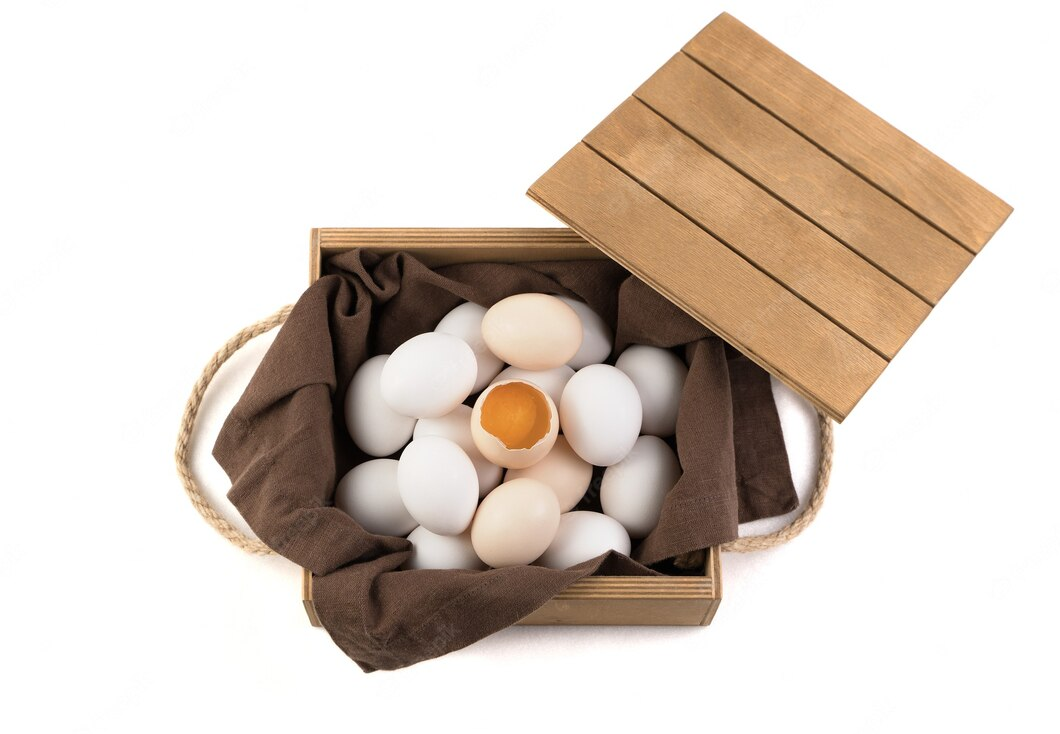
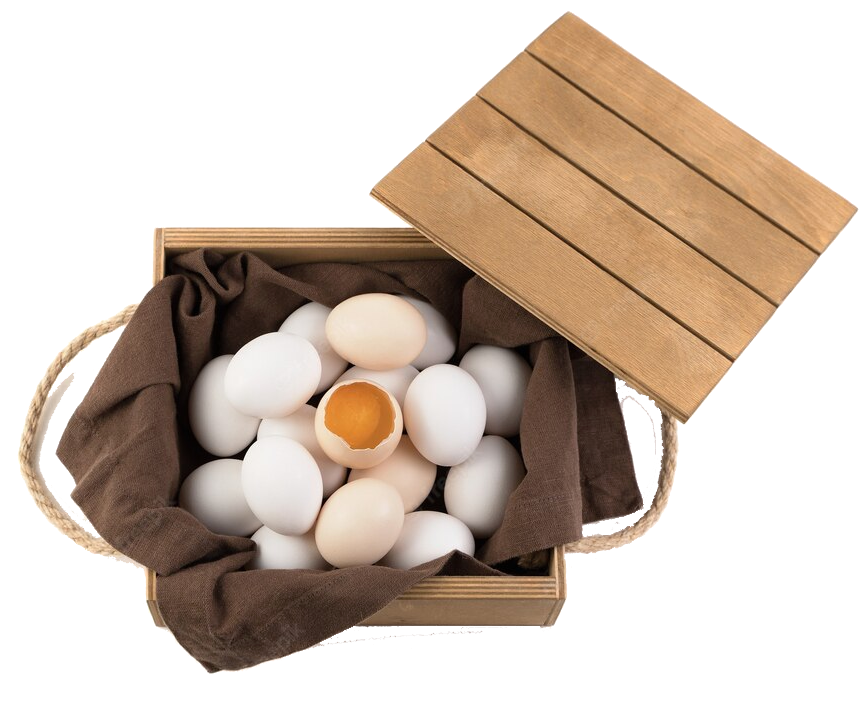
not found page update

diff --git a/src/Pages/NoteFound/NotFound.css b/src/Pages/NoteFound/NotFound.css
@@ -6,11 +6,11 @@
     overflow-x: hidden;
     position: relative;
     background-repeat: no-repeat;
-    align-items: center;
+    align-items: stretch;
     margin-top: 100px;
     margin-bottom: 200px;
     display: flex;
-    justify-content: space-around;
+    justify-content: space-evenly;
 }
 .notFound h1{
     font-size: 100px;
@@ -36,11 +36,20 @@
     .notFound .egg{
         order: 2 !important;
     }
+    .notFound .egg img{
+        width: 80%;
+    }
     .notFound .not404{
         order: 1 !important;
     }
     .notFound {
         flex-direction: column;
+    }
+}
+@media only screen and (min-width:1001px) {
+    
+    .notFound .egg img{
+        width: 80%;
     }
 }
 
